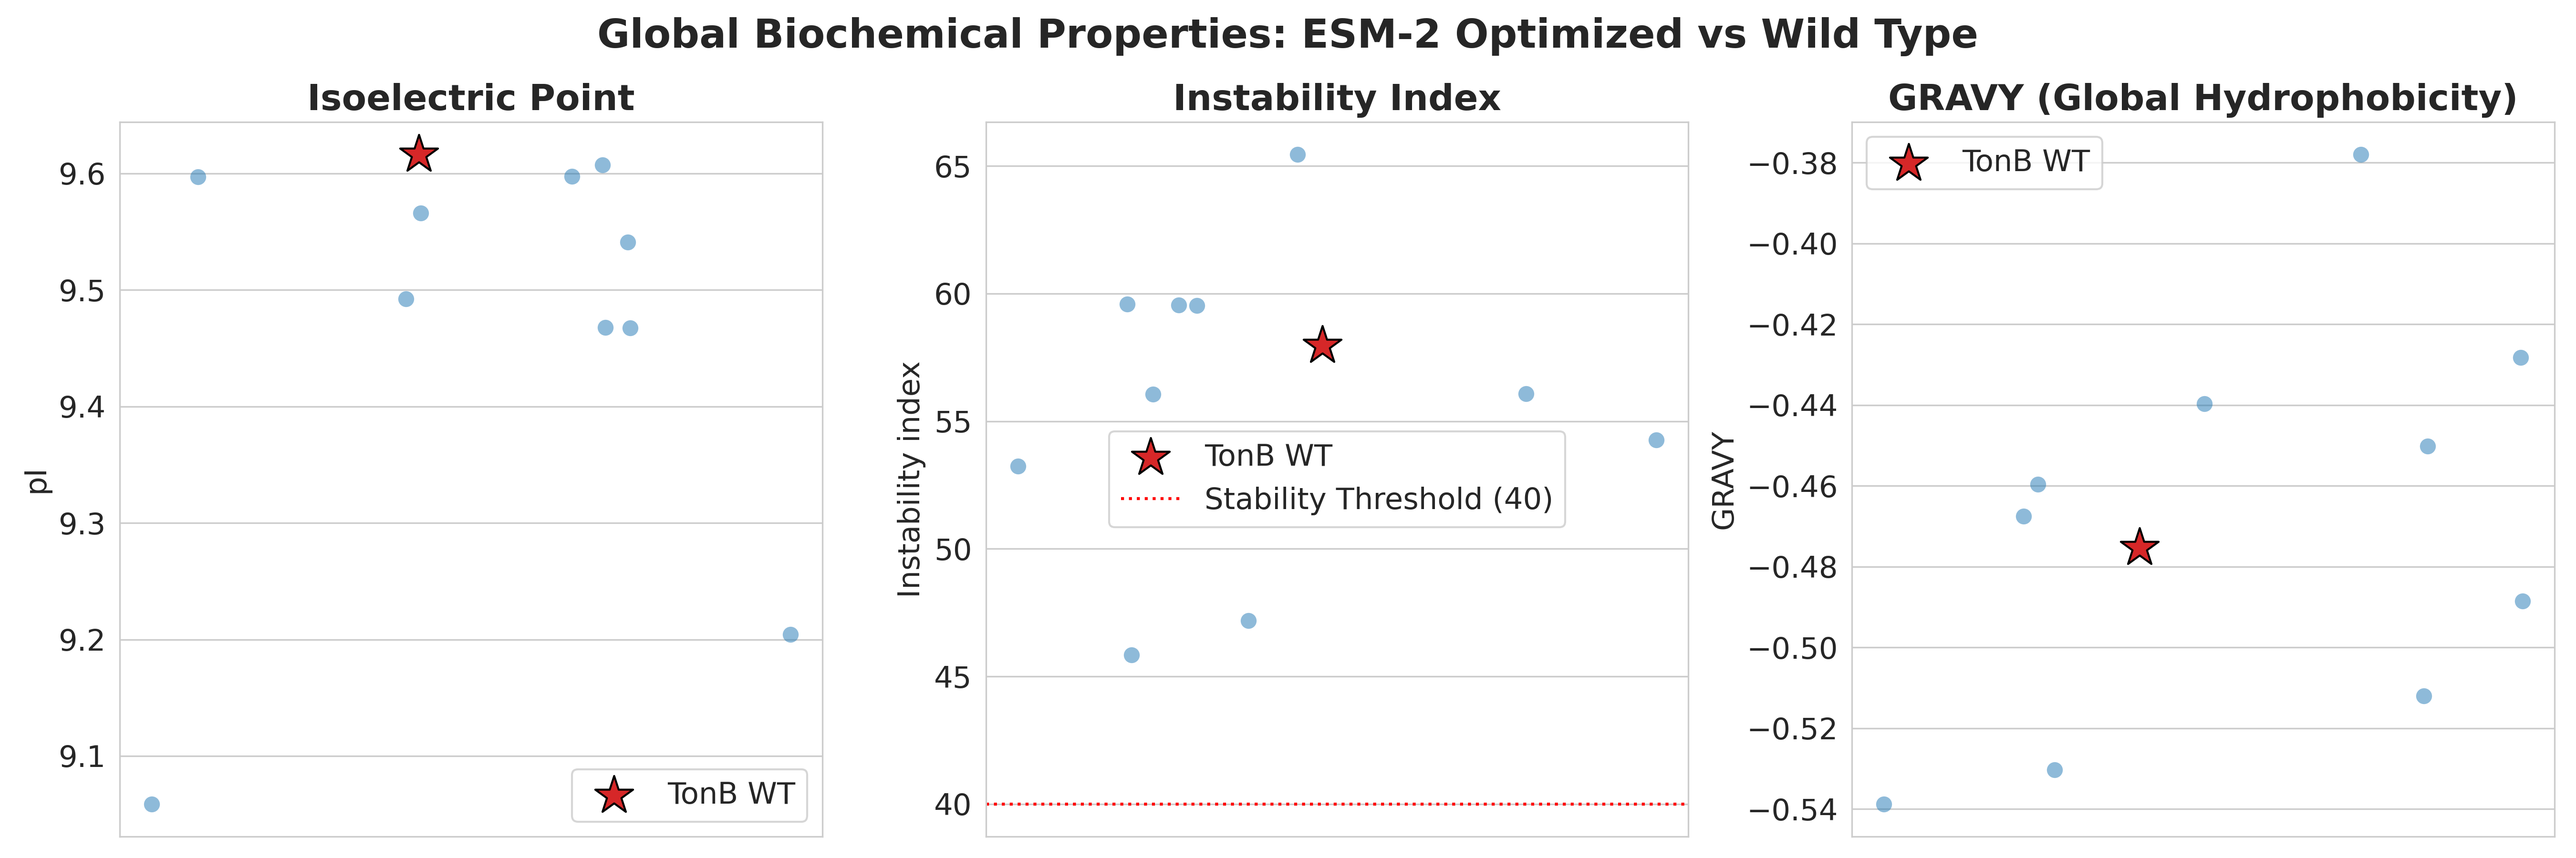
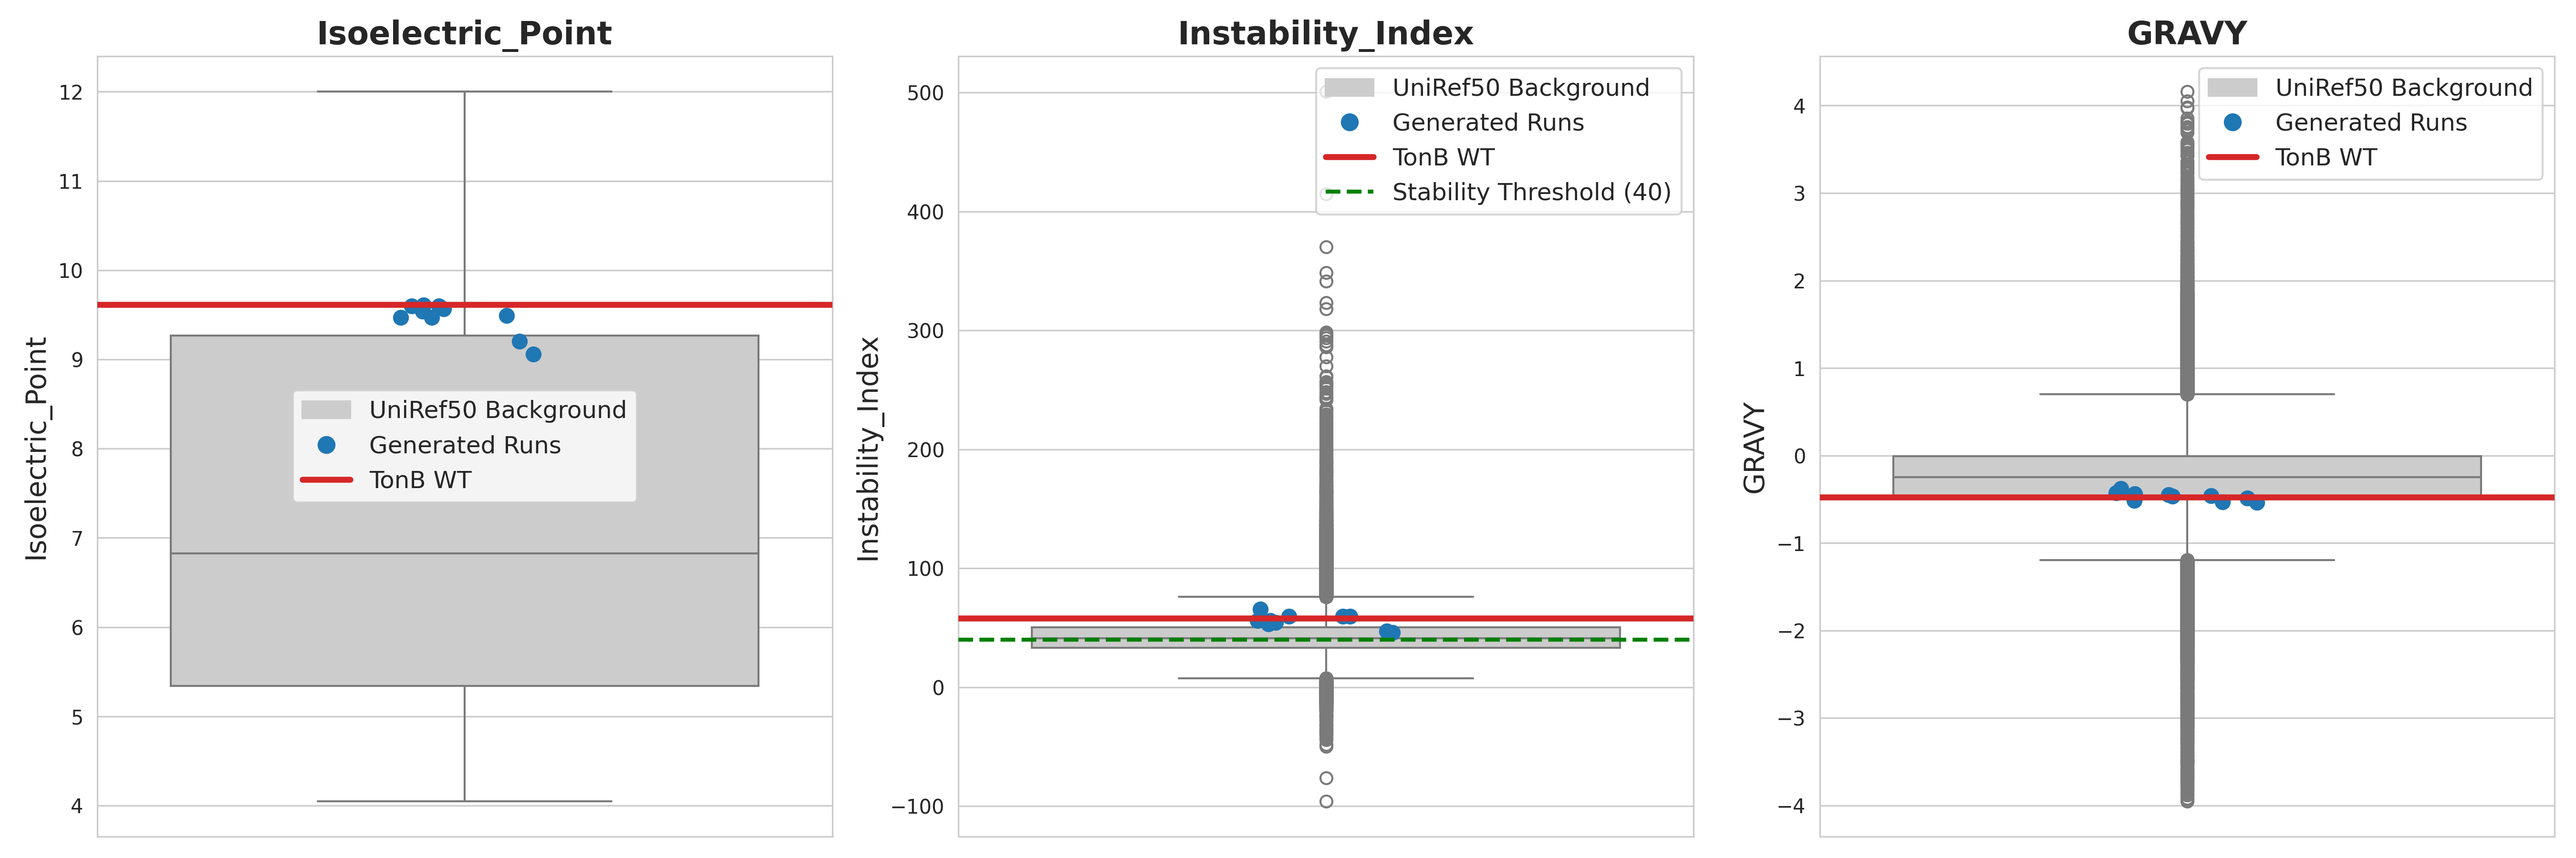
updated code to also include uniref backgorund

diff --git a/TonB/analysis/feature_analysis/biochemical_analysis/biochemichal_analysis.py b/TonB/analysis/feature_analysis/biochemical_analysis/biochemichal_analysis.py
@@ -114,6 +114,58 @@ for rec in records:
         if len(x_f) > 0: flex_data.append({"Type": tipo, "x": x_f, "y": y_f})
 
 df_global = pd.DataFrame(global_features)
+# Estrai il numero dopo "seed"
+df_global["Run"] = (
+    df_global["ID"]
+    .str.extract(r'seed(\d+)')[0]
+)
+
+df_global["Run"] = (
+    df_global["ID"]
+    .str.extract(r'seed(\d+)')[0]
+    .astype("Int64")   # intero con supporto a NA
+)
+df_global = df_global.sort_values("Run")
+
+
+uniref_records = list(SeqIO.parse("../../../pca/datasets/uniref50_subsample.fasta", "fasta"))
+
+valid_aa = set("ACDEFGHIKLMNPQRSTVWY")
+
+background_features = []
+
+for rec in uniref_records:
+    seq = str(rec.seq).upper().replace("-", "")
+    
+    # Escludi sequenze con amminoacidi non standard
+    if not set(seq).issubset(valid_aa):
+        continue
+    
+    feats = extract_global_features(seq)
+    if feats:
+        feats["ID"] = rec.id
+        background_features.append(feats)
+
+print(f"Sequenze valide nel background: {len(background_features)}")
+
+
+df_background = pd.DataFrame(background_features)
+
+df_background.describe(percentiles=[0.01, 0.05, 0.95, 0.99])
+
+# Solo sequenze generate (escludo WT)
+df_generated = df_global[df_global["Type"] == "Generated (ESM-2)"].copy()
+df_generated["Group"] = "Generated"
+
+df_background["Group"] = "Background"
+
+# Mantieni solo colonne utili
+cols = ["Isoelectric_Point", "Instability_Index", "GRAVY", "Group"]
+
+df_plot = pd.concat([
+    df_generated[cols],
+    df_background[cols]
+], ignore_index=True)
 
 # -----------------------------------------------------------------------------
 # PLOT 1: PROFILI LOCALI (3 Grafici Separati)
@@ -176,29 +228,50 @@ metrics = [
 ]
 
 wt_row = df_global[df_global["Type"] == "Wild Type"].iloc[0]
+import matplotlib.patches as mpatches
+import matplotlib.lines as mlines
 
-for i, (col, title, desc) in enumerate(metrics):
+metrics = ["Isoelectric_Point", "Instability_Index", "GRAVY"]
+
+fig, axes = plt.subplots(1, 3, figsize=(18,6))
+
+# Usa tutte le sequenze generate non WT
+df_gen = df_global[df_global["Type"] == "Generated (ESM-2)"].copy()
+
+for i, col in enumerate(metrics):
     ax = axes[i]
     
-    sns.stripplot(
-        data=df_global[df_global["Type"] == "Generated (ESM-2)"], 
-        y=col, color="#1f77b4", alpha=0.5, size=8, ax=ax, jitter=True
-    )
+    # Boxplot background UniRef50
+    sns.boxplot(y=df_background[col], color="#cccccc", ax=ax, zorder=1)
     
-    ax.scatter(0, wt_row[col], color='#d62728', marker='*', s=400, edgecolor='black', zorder=10, label="TonB WT")
+    # Punti blu delle run ESM-2 (senza boxplot)
+    sns.stripplot(y=df_gen[col], color="#1f77b4", size=8, ax=ax, jitter=True, zorder=2)
+    
+    # Linea TonB WT
+    wt_value = df_global[df_global["Type"]=="Wild Type"][col].values[0]
+    ax.axhline(wt_value, color='#d62728', linewidth=3, zorder=3)
+    
+    # Soglia Instability Index
+    if col == "Instability_Index":
+        ax.axhline(40, color='green', linestyle='--', linewidth=2, zorder=3)
+    
+    # Proxy artists per legenda
+    background_patch = mpatches.Patch(color="#cccccc", label="UniRef50 Background")
+    generated_marker = mlines.Line2D([], [], color="#1f77b4", marker="o", linestyle="None",
+                                     markersize=8, label="Generated Runs")
+    wt_line = mlines.Line2D([], [], color='#d62728', linewidth=3, label="TonB WT")
+    handles = [background_patch, generated_marker, wt_line]
     
     if col == "Instability_Index":
-        ax.axhline(40, color='red', linestyle=':', label='Stability Threshold (40)')
+        threshold_line = mlines.Line2D([], [], color='green', linestyle="--", linewidth=2,
+                                       label="Stability Threshold (40)")
+        handles.append(threshold_line)
+    
+    ax.legend(handles=handles, fontsize=12)
+    ax.set_title(col, fontweight='bold', fontsize=16)
+    ax.set_ylabel(col, fontsize=14)
+    ax.set_xticks([])
 
-    ax.set_title(title, fontweight='bold', fontsize=18)
-    ax.set_ylabel(desc, fontsize=15)
-    ax.tick_params(axis='y', labelsize=15)
-    ax.set_xticks([]) 
-    ax.legend(loc="best", fontsize = 15)
-
-plt.suptitle("Global Biochemical Properties: ESM-2 Optimized vs Wild Type", fontsize=20, fontweight='bold')
 plt.tight_layout()
 plt.savefig(f"{OUTPUT_DIR}/2_Global_Metrics_Boxplots.png", dpi=300)
-plt.close()
-
-print(f"Analisi conclusa! Trovi i grafici aggiornati in: {OUTPUT_DIR}")
+plt.show()
